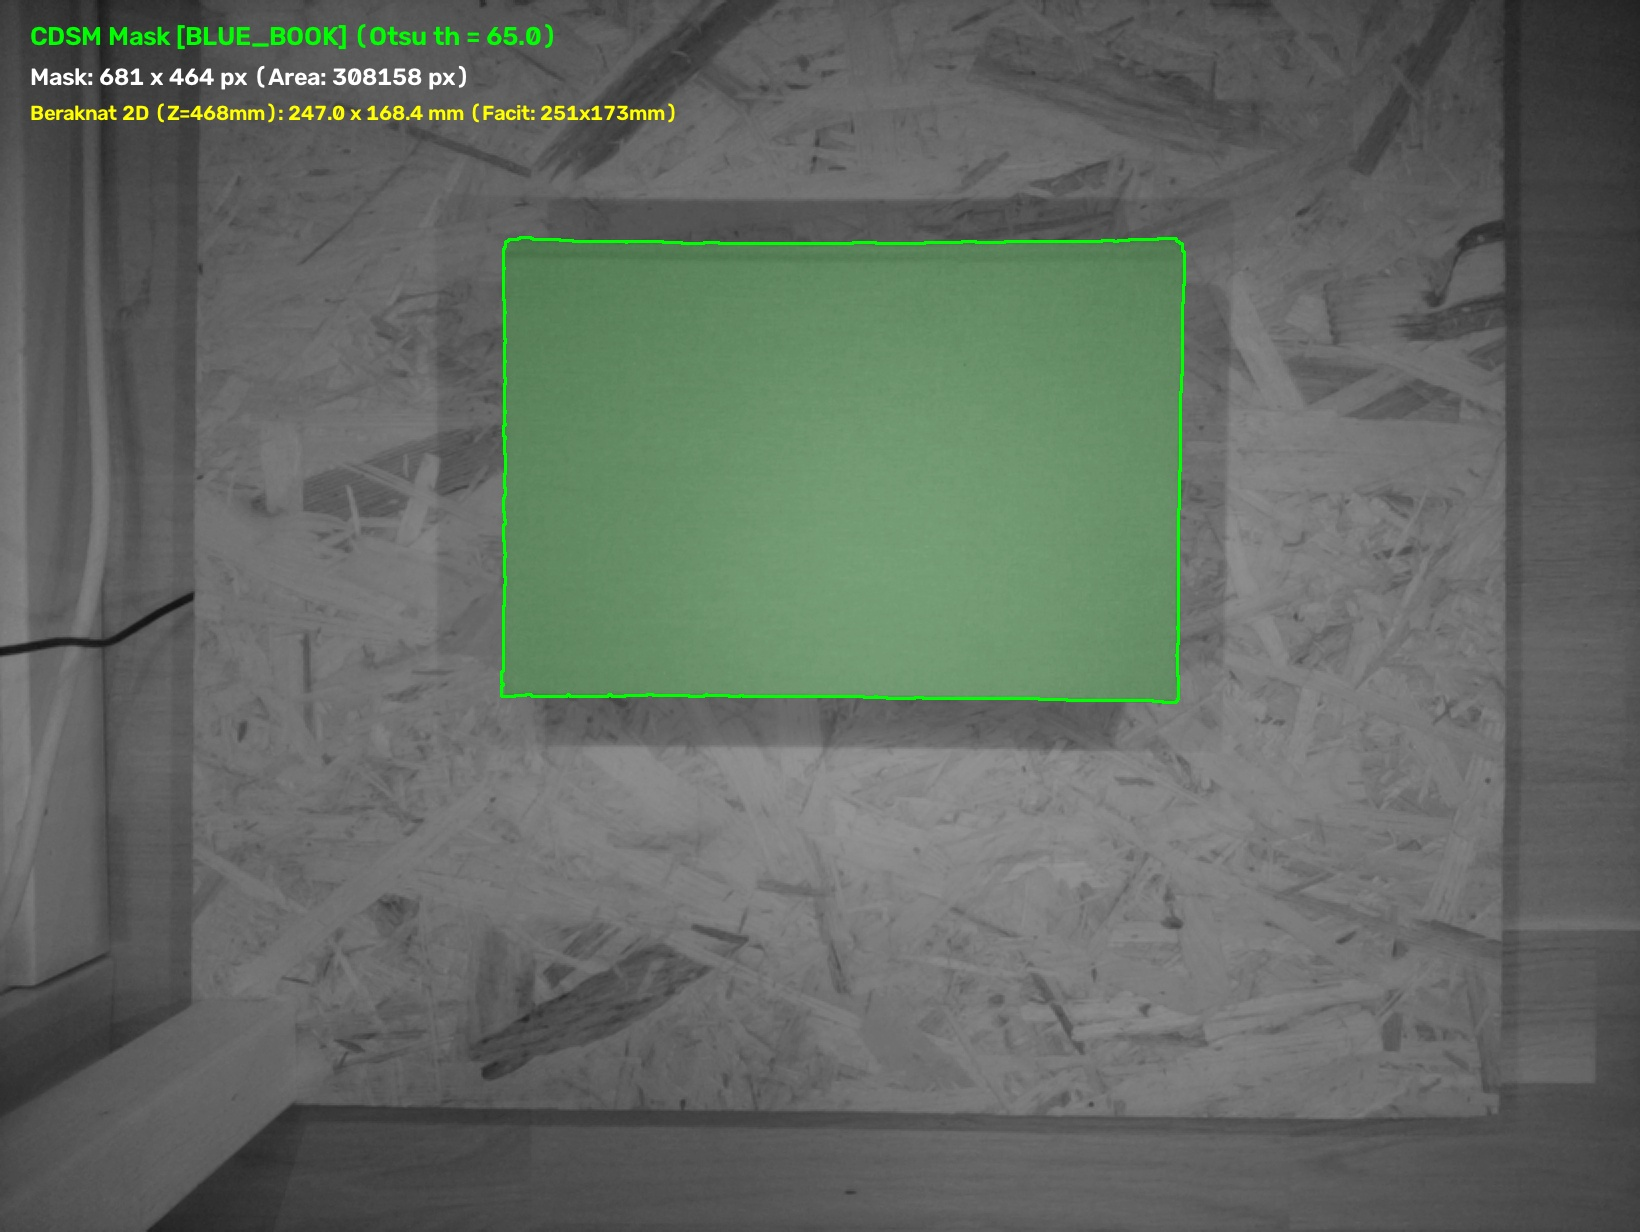
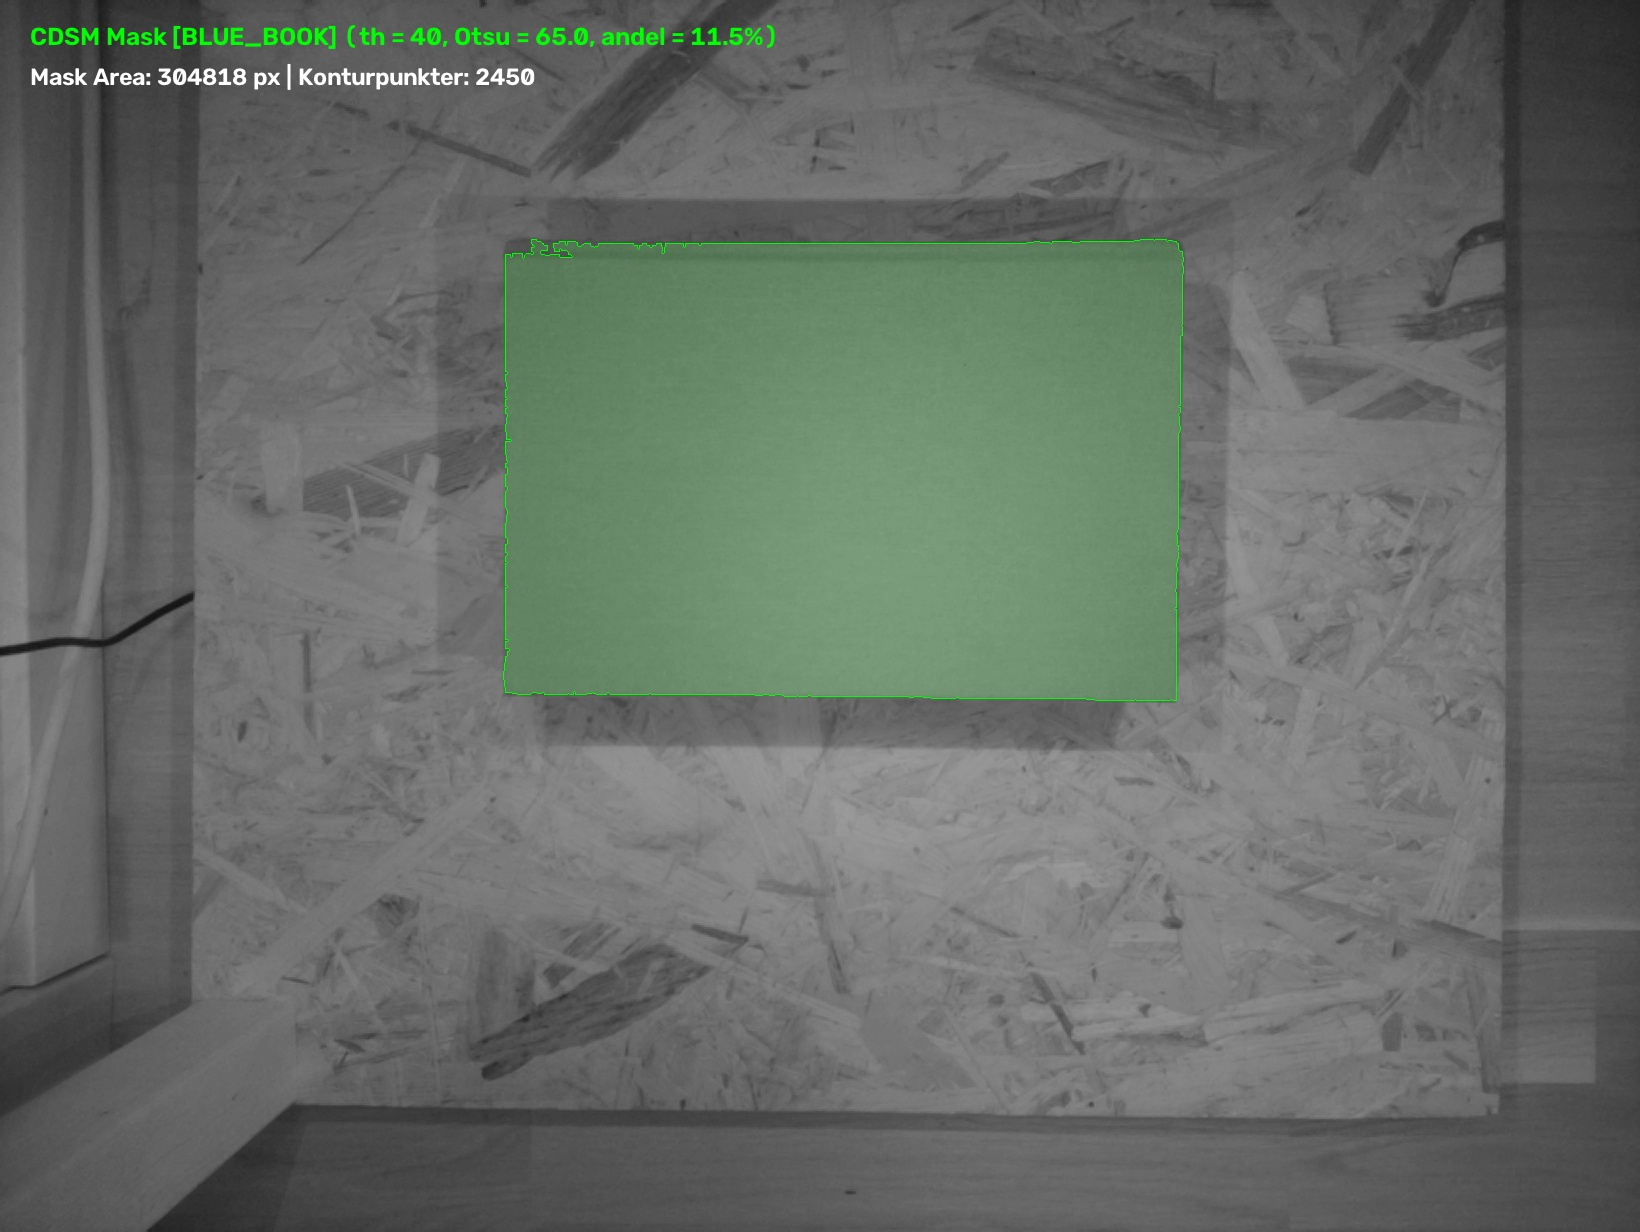
Uppdatera CDSM: dynamisk andelsbaserad tröskling och sparande av magnitude-bilder

diff --git a/scripts/test_package_detection.py b/scripts/test_package_detection.py
@@ -113,10 +113,17 @@ def run_cdsm_pipeline(dataset_name: str) -> Dict[str, any]:
     bed_mask[180:1050, 260:1380] = 255
     mag_bed = cv2.bitwise_and(mag, bed_mask)
 
-    # 6. Adaptiv tröskling via Otsu (Steg 5)
-    th_otsu, _ = cv2.threshold(mag_bed[180:1050, 260:1380], 0, 255, cv2.THRESH_BINARY + cv2.THRESH_OTSU)
-    # Skala med 0.75 för att svälja halvskugga (penumbra) vid höga 3D-hörn (bordets brus är ~10)
-    th_shadow = int(th_otsu * 0.75)
+    # Spara magnitudo-bilden så man kan inspektera skuggfältet direkt före tröskling och fyllning
+    mag_out_path = OUTPUT_DIR / f"{dataset_name}_magnitude.jpg"
+    imwrite_unicode(mag_out_path, mag)
+
+    # 6. Adaptiv tröskling via klassbalanserad Otsu (Steg 5)
+    crop_bed = mag_bed[180:1050, 260:1380]
+    th_otsu, _ = cv2.threshold(crop_bed, 0, 255, cv2.THRESH_BINARY + cv2.THRESH_OTSU)
+    # Dynamisk skalfaktor baserad på skuggans andel: faktor = clip(0.5 + andel, 0.50, 0.80)
+    andel = float(np.mean(crop_bed > th_otsu))
+    scale_factor = float(np.clip(0.5 + andel, 0.50, 0.80))
+    th_shadow = max(int(round(th_otsu * scale_factor)), 25)
     binary_shadow = (mag_bed > th_shadow).astype(np.uint8) * 255
 
     # 7. Ö-isolering via inverterad flödesfyllning (Steg 6)
@@ -151,7 +158,7 @@ def run_cdsm_pipeline(dataset_name: str) -> Dict[str, any]:
     # Rita den exakta ytterkonturen med 1 px tunn grön linje för maximal pixelprecision
     cv2.drawContours(vis, [pkg_contour], -1, (0, 255, 0), thickness=1)
 
-    cv2.putText(vis, f"CDSM Mask [{dataset_name.upper()}] (th = {th_shadow}, Otsu = {th_otsu:.1f})", (30, 45), cv2.FONT_HERSHEY_SIMPLEX, 0.9, (0, 255, 0), 2, cv2.LINE_AA)
+    cv2.putText(vis, f"CDSM Mask [{dataset_name.upper()}] (th = {th_shadow}, Otsu = {th_otsu:.1f}, andel = {andel*100:.1f}%)", (30, 45), cv2.FONT_HERSHEY_SIMPLEX, 0.85, (0, 255, 0), 2, cv2.LINE_AA)
     cv2.putText(vis, f"Mask Area: {area_px:.0f} px | Konturpunkter: {len(pkg_contour)}", (30, 85), cv2.FONT_HERSHEY_SIMPLEX, 0.8, (255, 255, 255), 2, cv2.LINE_AA)
 
     out_path = OUTPUT_DIR / f"{dataset_name}_cdsm_result.jpg"
@@ -161,8 +168,11 @@ def run_cdsm_pipeline(dataset_name: str) -> Dict[str, any]:
         "dataset": dataset_name,
         "shadow_threshold": th_shadow,
         "otsu_threshold": th_otsu,
+        "andel": andel,
+        "scale_factor": scale_factor,
         "area_px": area_px,
         "contour_points": len(pkg_contour),
+        "magnitude_path": mag_out_path,
         "output_path": out_path,
     }
 
@@ -186,10 +196,12 @@ def main():
         res = run_cdsm_pipeline(ds)
 
         print(f"  [OK] Mask isolerad!")
-        print(f"       Tröskel (0.75*Otsu): {res['shadow_threshold']} (Otsu var {res['otsu_threshold']:.1f})")
+        print(f"       Otsu-tröskel:        {res['otsu_threshold']:.1f} (Skugg-andel: {res['andel']*100:.1f}%)")
+        print(f"       Adaptiv tröskel:     {res['shadow_threshold']} (Faktor: {res['scale_factor']:.3f})")
         print(f"       Maskarea:            {res['area_px']:.0f} px")
         print(f"       Konturpunkter:       {res['contour_points']} st")
-        print(f"  [BILD] Sparad overlay: {res['output_path']}")
+        print(f"  [BILD] Sparad magnitude:  {res['magnitude_path']}")
+        print(f"  [BILD] Sparad overlay:    {res['output_path']}")
 
     print("\n" + "=" * 75)
     print("  KLART! Alla resultat finns i: data/test_output/package_detection/")
